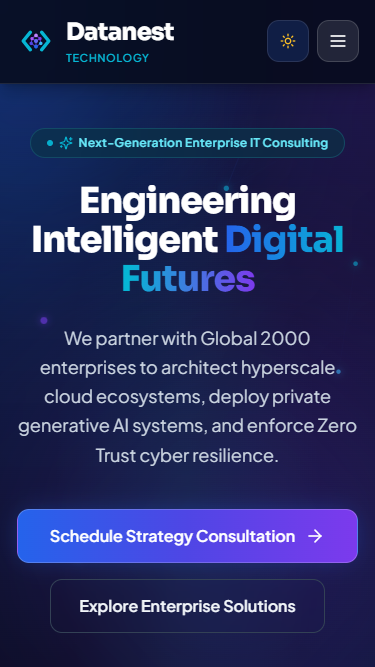
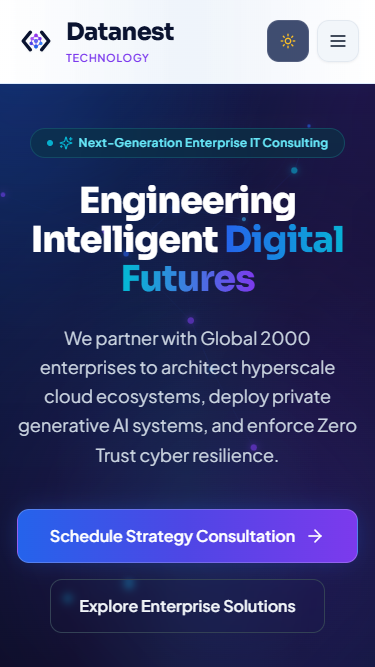
style: update navbar to white max with faint blue undertone and high-contrast typography

diff --git a/src/components/layout/Navbar.tsx b/src/components/layout/Navbar.tsx
@@ -70,16 +70,21 @@ export const Navbar: React.FC = () => {
   return (
     <header
       className={cn(
-        'fixed top-0 left-0 right-0 z-40 transition-all duration-300',
+        'fixed top-0 left-0 right-0 z-40 transition-all duration-300 backdrop-blur-xl border-b',
+        /* White Max with Faint Blue Undertone & Border */
         isScrolled
-          ? 'py-3.5 bg-brand-midnight/95 backdrop-blur-2xl border-b border-cyan-500/20 shadow-2xl shadow-black/40'
-          : 'py-4 sm:py-5 bg-brand-midnight/85 backdrop-blur-xl border-b border-white/10 shadow-lg shadow-black/20'
+          ? 'py-3.5 border-blue-200/80 shadow-[0_4px_25px_-5px_rgba(37,99,235,0.12)]'
+          : 'py-4 sm:py-5 border-blue-100/90 shadow-[0_2px_15px_-3px_rgba(37,99,235,0.07)]'
       )}
+      style={{
+        backgroundColor: isScrolled ? 'rgba(255, 255, 255, 0.97)' : 'rgba(255, 255, 255, 0.93)',
+        backgroundImage: 'linear-gradient(to right, #FFFFFF, rgba(239, 246, 255, 0.65), #FFFFFF)',
+      }}
     >
       <div className="max-w-7xl mx-auto px-4 sm:px-6 lg:px-8">
         <div className="flex items-center justify-between">
-          {/* Brand Logo with high-contrast light mode */}
-          <Logo size="md" light />
+          {/* Brand Logo in rich navy & purple on white */}
+          <Logo size="md" light={false} />
 
           {/* Desktop Navigation */}
           <nav className="hidden lg:flex items-center gap-1.5" aria-label="Main Navigation">
@@ -102,15 +107,15 @@ export const Navbar: React.FC = () => {
                       className={cn(
                         'flex items-center gap-1.5 px-3.5 py-2 rounded-xl text-sm font-semibold transition-all duration-200',
                         isDropdownOpen
-                          ? 'text-brand-cyan bg-white/10'
-                          : 'text-slate-200 hover:text-white hover:bg-white/5'
+                          ? 'text-brand-blue bg-blue-50/80'
+                          : 'text-slate-700 hover:text-brand-blue hover:bg-blue-50/50'
                       )}
                     >
                       <span>{item.label}</span>
                       <ChevronDown
                         className={cn(
                           'w-4 h-4 transition-transform duration-200',
-                          isDropdownOpen ? 'rotate-180 text-brand-cyan' : 'text-slate-400'
+                          isDropdownOpen ? 'rotate-180 text-brand-blue' : 'text-slate-400'
                         )}
                       />
                     </button>
@@ -130,21 +135,21 @@ export const Navbar: React.FC = () => {
                               : 'left-0 w-80'
                           )}
                         >
-                          <div className="rounded-2xl bg-brand-midnight/98 backdrop-blur-2xl border border-white/15 p-6 shadow-2xl shadow-cyan-950/30">
+                          <div className="rounded-2xl bg-white border border-blue-100 p-6 shadow-2xl shadow-blue-950/10">
                             {isMega ? (
                               <div>
-                                <div className="flex items-center justify-between pb-4 mb-4 border-b border-white/10">
+                                <div className="flex items-center justify-between pb-4 mb-4 border-b border-slate-100">
                                   <div>
-                                    <h3 className="font-heading font-bold text-base text-white">
+                                    <h3 className="font-heading font-bold text-base text-brand-navy">
                                       Enterprise Solutions & Capabilities
                                     </h3>
-                                    <p className="text-xs text-slate-400">
+                                    <p className="text-xs text-slate-500">
                                       End-to-end IT modernization, cloud infrastructure, and AI engineering
                                     </p>
                                   </div>
                                   <Link
                                     to="/services"
-                                    className="inline-flex items-center gap-1 text-xs font-semibold text-brand-cyan hover:underline"
+                                    className="inline-flex items-center gap-1 text-xs font-semibold text-brand-blue hover:underline"
                                   >
                                     <span>All Services</span>
                                     <ArrowRight className="w-3.5 h-3.5" />
@@ -156,23 +161,23 @@ export const Navbar: React.FC = () => {
                                     <Link
                                       key={sub.href}
                                       to={sub.href}
-                                      className="group flex items-start gap-3.5 p-3 rounded-xl hover:bg-white/5 transition-all border border-transparent hover:border-white/10"
+                                      className="group flex items-start gap-3.5 p-3 rounded-xl hover:bg-blue-50/70 transition-all border border-transparent hover:border-blue-100"
                                     >
-                                      <div className="shrink-0 p-2.5 rounded-xl bg-blue-950/80 text-brand-cyan group-hover:scale-110 group-hover:bg-brand-blue group-hover:text-white transition-all">
+                                      <div className="shrink-0 p-2.5 rounded-xl bg-blue-50 text-brand-blue group-hover:scale-110 group-hover:bg-brand-blue group-hover:text-white transition-all">
                                         {sub.icon && iconMap[sub.icon] ? iconMap[sub.icon] : <Sparkles className="w-5 h-5" />}
                                       </div>
                                       <div className="flex-1 min-w-0">
                                         <div className="flex items-center gap-2">
-                                          <p className="text-sm font-semibold text-slate-100 group-hover:text-brand-cyan transition-colors truncate">
+                                          <p className="text-sm font-semibold text-slate-900 group-hover:text-brand-blue transition-colors truncate">
                                             {sub.title}
                                           </p>
                                           {sub.badge && (
-                                            <span className="text-[10px] font-bold px-1.5 py-0.5 rounded bg-purple-900/60 text-purple-300 border border-purple-700/50">
+                                            <span className="text-[10px] font-bold px-1.5 py-0.5 rounded bg-purple-100 text-purple-700 border border-purple-200">
                                               {sub.badge}
                                             </span>
                                           )}
                                         </div>
-                                        <p className="text-xs text-slate-400 line-clamp-2 mt-0.5">
+                                        <p className="text-xs text-slate-500 line-clamp-2 mt-0.5">
                                           {sub.description}
                                         </p>
                                       </div>
@@ -186,22 +191,22 @@ export const Navbar: React.FC = () => {
                                   <Link
                                     key={sub.href}
                                     to={sub.href}
-                                    className="group flex items-center gap-3 p-2.5 rounded-xl hover:bg-white/5 transition-colors"
+                                    className="group flex items-center gap-3 p-2.5 rounded-xl hover:bg-blue-50/70 transition-colors"
                                   >
-                                    <div className="shrink-0 p-2 rounded-lg bg-blue-950/80 text-brand-cyan group-hover:bg-brand-blue group-hover:text-white transition-colors">
+                                    <div className="shrink-0 p-2 rounded-lg bg-blue-50 text-brand-blue group-hover:bg-brand-blue group-hover:text-white transition-colors">
                                       {sub.icon && iconMap[sub.icon] ? iconMap[sub.icon] : <Sparkles className="w-4 h-4" />}
                                     </div>
                                     <div>
-                                      <p className="text-sm font-semibold text-slate-200 group-hover:text-brand-cyan transition-colors">
+                                      <p className="text-sm font-semibold text-slate-800 group-hover:text-brand-blue transition-colors">
                                         {sub.title}
                                       </p>
                                     </div>
                                   </Link>
                                 ))}
-                                <div className="pt-2 border-t border-white/10 mt-2">
+                                <div className="pt-2 border-t border-slate-100 mt-2">
                                   <Link
                                     to={item.href}
-                                    className="inline-flex items-center gap-1.5 text-xs font-semibold text-brand-cyan px-2.5 py-1 hover:underline"
+                                    className="inline-flex items-center gap-1.5 text-xs font-semibold text-brand-blue px-2.5 py-1 hover:underline"
                                   >
                                     <span>Explore All {item.label}</span>
                                     <ArrowRight className="w-3.5 h-3.5" />
@@ -225,8 +230,8 @@ export const Navbar: React.FC = () => {
                     cn(
                       'relative px-3.5 py-2 rounded-xl text-sm font-semibold transition-all duration-200',
                       isActive
-                        ? 'text-brand-cyan font-bold'
-                        : 'text-slate-200 hover:text-white hover:bg-white/5'
+                        ? 'text-brand-blue font-bold'
+                        : 'text-slate-700 hover:text-brand-blue hover:bg-blue-50/50'
                     )
                   }
                 >
@@ -236,7 +241,7 @@ export const Navbar: React.FC = () => {
                       {isActive && (
                         <motion.div
                           layoutId="navbar-active-pill"
-                          className="absolute bottom-0 left-3 right-3 h-0.5 bg-gradient-to-r from-brand-blue via-brand-cyan to-brand-violet rounded-full shadow-glow-cyan"
+                          className="absolute bottom-0 left-3 right-3 h-0.5 bg-gradient-to-r from-brand-blue via-brand-cyan to-indigo-600 rounded-full"
                           transition={{ type: 'spring', stiffness: 380, damping: 30 }}
                         />
                       )}
@@ -249,10 +254,10 @@ export const Navbar: React.FC = () => {
 
           {/* Right Action Buttons */}
           <div className="hidden lg:flex items-center gap-3">
-            <ThemeToggle className="bg-white/10 border-white/15 text-white hover:bg-white/20 hover:text-brand-cyan" />
+            <ThemeToggle className="bg-slate-100/90 border-slate-200/90 text-slate-700 hover:bg-blue-50 hover:text-brand-blue hover:border-blue-200 shadow-sm" />
             <Link to="/contact">
               <Button
-                variant="glow"
+                variant="primary"
                 size="sm"
                 icon={<ArrowRight className="w-4 h-4" />}
               >
@@ -263,13 +268,13 @@ export const Navbar: React.FC = () => {
 
           {/* Mobile Actions & Hamburger */}
           <div className="flex items-center gap-2 lg:hidden">
-            <ThemeToggle className="bg-white/10 border-white/15 text-white hover:bg-white/20" />
+            <ThemeToggle className="bg-slate-100/90 border-slate-200/90 text-slate-700 hover:bg-blue-50" />
             <button
               type="button"
               onClick={() => setMobileMenuOpen(!mobileMenuOpen)}
               aria-label={mobileMenuOpen ? 'Close Navigation Menu' : 'Open Navigation Menu'}
               aria-expanded={mobileMenuOpen}
-              className="p-2.5 rounded-xl border border-white/15 bg-white/10 text-white hover:bg-white/20 hover:text-brand-cyan focus-visible:outline-none focus-visible:ring-2 focus-visible:ring-brand-cyan transition-colors"
+              className="p-2.5 rounded-xl border border-slate-200/90 bg-slate-100/90 text-slate-800 hover:bg-blue-50 hover:text-brand-blue focus-visible:outline-none focus-visible:ring-2 focus-visible:ring-brand-blue transition-colors shadow-sm"
             >
               {mobileMenuOpen ? <X className="w-5 h-5" /> : <Menu className="w-5 h-5" />}
             </button>
@@ -285,19 +290,19 @@ export const Navbar: React.FC = () => {
             animate={{ opacity: 1, height: 'auto' }}
             exit={{ opacity: 0, height: 0 }}
             transition={{ duration: 0.3, ease: 'easeInOut' }}
-            className="lg:hidden border-b border-white/15 bg-brand-midnight/98 backdrop-blur-2xl px-4 pt-3 pb-6 shadow-2xl text-white"
+            className="lg:hidden border-b border-blue-100 bg-white/98 backdrop-blur-2xl px-4 pt-3 pb-6 shadow-xl text-slate-800"
           >
             <div className="space-y-2 py-2 max-h-[75vh] overflow-y-auto">
               {navigationData.map((item) => (
-                <div key={item.label} className="border-b border-white/10 pb-2">
+                <div key={item.label} className="border-b border-slate-100 pb-2">
                   <NavLink
                     to={item.href}
                     className={({ isActive }) =>
                       cn(
                         'block px-3 py-2 text-base font-semibold rounded-lg',
                         isActive
-                          ? 'text-brand-cyan bg-white/10 font-bold'
-                          : 'text-slate-200 hover:text-white'
+                          ? 'text-brand-blue bg-blue-50 font-bold'
+                          : 'text-slate-800 hover:text-brand-blue'
                       )
                     }
                   >
@@ -309,9 +314,9 @@ export const Navbar: React.FC = () => {
                         <Link
                           key={sub.href}
                           to={sub.href}
-                          className="flex items-center gap-2 py-1.5 px-2 text-xs text-slate-300 hover:text-brand-cyan"
+                          className="flex items-center gap-2 py-1.5 px-2 text-xs text-slate-600 hover:text-brand-blue"
                         >
-                          <span className="w-1.5 h-1.5 rounded-full bg-brand-cyan" />
+                          <span className="w-1.5 h-1.5 rounded-full bg-brand-blue" />
                           <span>{sub.title}</span>
                         </Link>
                       ))}
@@ -321,7 +326,7 @@ export const Navbar: React.FC = () => {
               ))}
               <div className="pt-4">
                 <Link to="/contact" className="block w-full">
-                  <Button variant="glow" size="md" className="w-full">
+                  <Button variant="primary" size="md" className="w-full">
                     Schedule Consultation
                   </Button>
                 </Link>

diff --git a/src/components/ui/Logo.tsx b/src/components/ui/Logo.tsx
@@ -40,7 +40,7 @@ export const Logo: React.FC<LogoProps> = ({
             <span
               className={cn(
                 'font-heading font-extrabold tracking-tight leading-none text-xl transition-colors',
-                light ? 'text-white' : 'text-brand-navy dark:text-white'
+                light ? 'text-white' : 'text-brand-navy'
               )}
             >
               Datanest
@@ -49,7 +49,7 @@ export const Logo: React.FC<LogoProps> = ({
               <span
                 className={cn(
                   'font-sans font-semibold tracking-wider uppercase text-[10px] mt-0.5 transition-colors',
-                  light ? 'text-brand-cyan' : 'text-brand-violet dark:text-brand-accent'
+                  light ? 'text-brand-cyan' : 'text-brand-violet'
                 )}
               >
                 Technology
@@ -79,14 +79,6 @@ export const Logo: React.FC<LogoProps> = ({
               <stop offset="50%" stopColor="#7C3AED" />
               <stop offset="100%" stopColor="#2563EB" />
             </linearGradient>
-            <linearGradient id="bracket-light" x1="0" y1="0" x2="100" y2="100" gradientUnits="userSpaceOnUse">
-              <stop offset="0%" stopColor="#0B1B3D" />
-              <stop offset="100%" stopColor="#1E3A8A" />
-            </linearGradient>
-            <linearGradient id="bracket-dark" x1="0" y1="0" x2="100" y2="100" gradientUnits="userSpaceOnUse">
-              <stop offset="0%" stopColor="#38BDF8" />
-              <stop offset="100%" stopColor="#2563EB" />
-            </linearGradient>
           </defs>
 
           {/* Left Angle Bracket < */}
@@ -96,7 +88,7 @@ export const Logo: React.FC<LogoProps> = ({
             strokeWidth="8.5"
             strokeLinecap="round"
             strokeLinejoin="round"
-            className={light ? 'text-brand-cyan' : 'text-brand-navy dark:text-white transition-colors'}
+            className={light ? 'text-white' : 'text-brand-navy transition-colors'}
           />
 
           {/* Right Angle Bracket > */}
@@ -106,7 +98,7 @@ export const Logo: React.FC<LogoProps> = ({
             strokeWidth="8.5"
             strokeLinecap="round"
             strokeLinejoin="round"
-            className={light ? 'text-brand-cyan' : 'text-brand-navy dark:text-white transition-colors'}
+            className={light ? 'text-white' : 'text-brand-navy transition-colors'}
           />
 
           {/* Connected Network Nodes Matrix */}
@@ -123,12 +115,12 @@ export const Logo: React.FC<LogoProps> = ({
           </g>
 
           {/* Intelligent Data Nodes */}
-          <circle cx="50" cy="36" r="4.5" fill="#C084FC" />
+          <circle cx="50" cy="36" r="4.5" fill="#9333EA" />
           <circle cx="40" cy="44" r="4" fill="#A855F7" />
           <circle cx="60" cy="44" r="4" fill="#7C3AED" />
           <circle cx="50" cy="50" r="5" fill="#6366F1" />
           <circle cx="38" cy="56" r="4.2" fill="#4F46E5" />
-          <circle cx="62" cy="56" r="4.2" fill="#38BDF8" />
+          <circle cx="62" cy="56" r="4.2" fill="#3B82F6" />
           <circle cx="50" cy="64" r="4.8" fill="#2563EB" />
         </svg>
       </div>
@@ -139,7 +131,7 @@ export const Logo: React.FC<LogoProps> = ({
             className={cn(
               'font-heading font-extrabold tracking-tight leading-none transition-colors',
               currentSize.text,
-              light ? 'text-white' : 'text-brand-navy dark:text-white'
+              light ? 'text-white' : 'text-brand-navy'
             )}
           >
             Datanest
@@ -149,7 +141,7 @@ export const Logo: React.FC<LogoProps> = ({
               className={cn(
                 'font-sans font-semibold tracking-wider uppercase mt-0.5 transition-colors',
                 currentSize.subtext,
-                light ? 'text-brand-cyan' : 'text-purple-700 dark:text-brand-accent'
+                light ? 'text-brand-cyan' : 'text-brand-violet'
               )}
             >
               Technology

diff --git a/test-site.js b/test-site.js
@@ -10,6 +10,7 @@ async function runTests() {
   });
 
   const page = await browser.newPage();
+  await page.setCacheEnabled(false);
   const consoleErrors = [];
 
   page.on('console', (msg) => {
